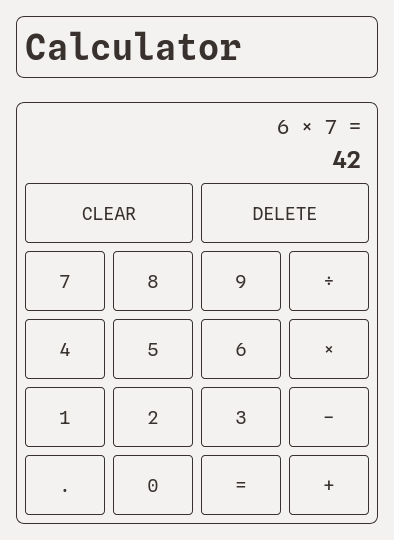
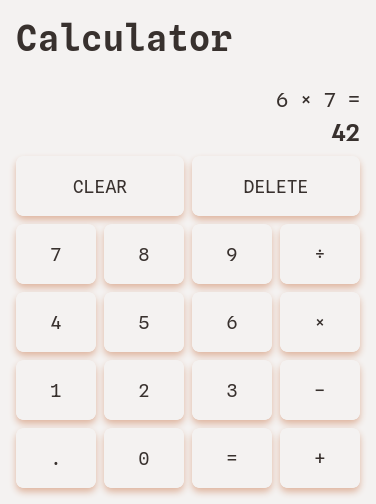
box shadow on buttons

diff --git a/code/styles.css b/code/styles.css
@@ -10,7 +10,6 @@
     --gap-size: min(8px, 0.5rem);
     --col-width: minmax(min-content, calc(32px + 3rem));
     --calc-width: calc(4 * var(--col-width) + 5 * var(--gap-size) + 4px);
-    --border: 1px solid var(--txt)
 }
 
 /* General */
@@ -18,8 +17,7 @@
 body {
     background-color: var(--bkg);
     color: var(--txt);
-    font-family: 'Spline Sans Mono', monospace;
-    font-size: 1.125rem;
+    font: 1.125rem 'Spline Sans Mono', monospace;
     margin: auto;
     margin-bottom: 3rem;
     padding: 16px;
@@ -36,9 +34,7 @@ h1 {
 }
 
 #calculator, h1 {
-    border: var(--border);
-    border-radius: calc(var(--gap-size));
-    padding: var(--gap-size);
+    padding: 0;
     width: var(--calc-width);
 }
 
@@ -55,9 +51,7 @@ footer {
 /* Screen display */
 
 #screen {
-    border-radius: var(--gap-size);
     margin-bottom: var(--gap-size);
-    padding: 0 var(--gap-size);
 }
 
 #display, #result {
@@ -83,19 +77,19 @@ footer {
 
 #buttons {
     display: grid;
+    grid-auto-rows: calc(12px + 3rem);
     grid-template-columns: repeat(4, var(--col-width));
     gap: var(--gap-size);
 }
 
 button {
     background-color: var(--button);
-    border: var(--border);
-    border-radius: calc(0.5 * var(--gap-size));
+    border: none;
+    box-shadow: 0 4px 8px hsl(20, 50%, 75%);
+    border-radius: var(--gap-size);
     color: inherit;
     cursor: pointer;
-    font-family: inherit;
-    font-size: inherit;
-    height: calc(28px + 2rem);
+    font: inherit;
 }
 
 button#clear, button#delete {
@@ -104,6 +98,11 @@ button#clear, button#delete {
 
 button:hover {
     background-color: var(--accent);
+}
+
+button:active {
+    background-color: var(--accent);
+    box-shadow: inset 0 4px 8px hsl(20, 50%, 25%);
 }
 
 button:disabled {

diff --git a/code/index.html b/code/index.html
@@ -35,6 +35,6 @@
                 <button class="operator">+</button>
             </div>
         </div>
-        <footer>made with <span style="color:hsl(20, 100%, 40%)">&#x2764</span> by Camomille</footer>
+        <footer>made with <span style="color:hsl(20, 50%, 25%)">&#x2764</span> by Camomille</footer>
     </body>
 </html>
